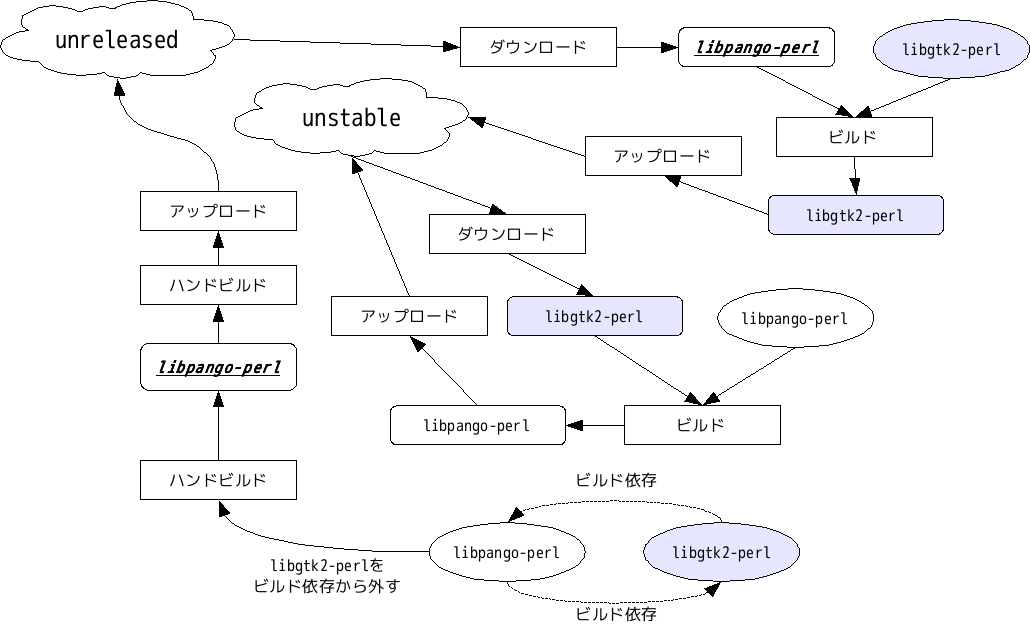
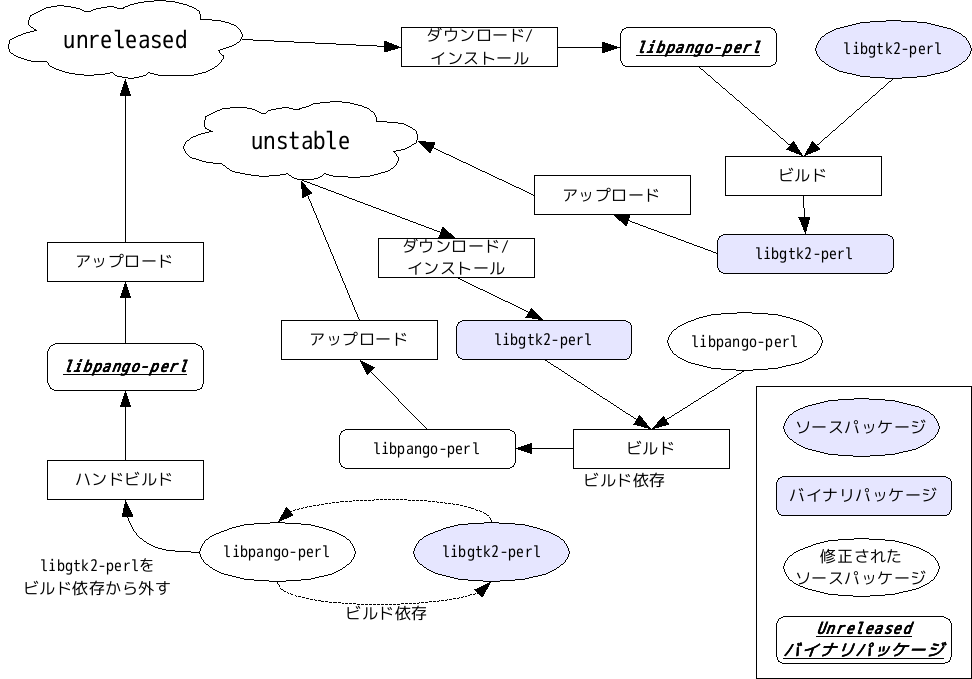
Update autobuilder/2009fuyu

diff --git a/debianmeetingresume2009-fuyu.tex b/debianmeetingresume2009-fuyu.tex
@@ -459,9 +459,9 @@ Debconf$B$G$O(B $B2q>l$+$i%P%9$G(B2$B;~4V$[$I0\F0$7$?$H$3$m$K$"$k%(%/%9%H%i
 $B$6$C$/$j@Z$C$F$7$^$&%$%Y%s%H$,H/@8$7!"5_5^<V$,8F$P$l$k%O%W%K%s%0$,$"$j$^$7$?!#(B
 
 \subsection{Debconf11}
-Debconf11 $B$O%\%9%K%"$H%I%$%D$,N)8uJd$7$7$^$7$?!#(B
+Debconf11 $B$O%\%9%K%"$H%I%$%D$,N)8uJd$7$^$7$?!#(B
 $B%I%$%D$O$^$@>l=j$,7h$^$C$F$$$J$$$h$&$G$9$,!":#G/Cf$K>l=j$r3NDj$5$;$k$h$&(B
-$B$G$9!#%=%^%j%"$O%H%i%s%8%C%H$,LLE]$G$9$,!"3+:ECO$O6u9A$+$i?t%-%m$N$H$3$m(B
+$B$G$9!#%\%9%K%"$O%H%i%s%8%C%H$,LLE]$G$9$,!"3+:ECO$O6u9A$+$i?t%-%m$N$H$3$m(B
 $B$K$"$j!"$=$s$J$K:$$i$J$$$h$&$K46$8$^$7$?!#(B
 $B%I%$%D$O(BDebian$B3+H/<T$,0lHVB?$$9q$G!"(BDebconf$B%A!<%`(B(orga)$B$N%a%s%P$bB?$$$?(B
 $B$a!"%I%$%DG;8|$J5$$,$7$^$9!#(B
@@ -684,7 +684,7 @@ defoma $B$r(B ITA $B$7$?$^$^$[$C$?$i$+$7$K$7$F$$$?$N$G!"(BCPAN admin$B$r$D$
 (2009/1/17$B@=(B) $B$r;H$C$F%$%s%9%H!<%k$7$F$_$^$7$?!#(B
 
 $B1QJ8%I%-%e%a%s%H(B
-http://glibc-bsd.alioth.debian.org/doc/
+\url{http://glibc-bsd.alioth.debian.org/doc/}
 
 \begin{commandline}
 wget http://glibc-bsd.alioth.debian.org/install-cd/kfreebsd-i386/current/debian-20090117-kfreebsd-i386-install.iso
@@ -2205,8 +2205,10 @@ sig  sig3  55BE302B 2009-01-27 _____ 2012-12-31 [selfsig]
 sig  sig   7E7B8AC9 2009-01-27 _____ __________ Joerg Jaspert <joerg@debian.org>
 sig  sig   D0EC0723 2009-01-27 _____ __________ Mark Hymers <mhy@debian.org>
 sig  sig   BE9BF8DA 2009-01-27 _____ __________ Mike O'Connor (stew) <stew@vireo.org>
-sig  sig   30B94B5C 2009-05-24 _____ __________ ******** (imacat) <imacat@mail.imacat.idv.tw>
+sig  sig   30B94B5C 2009-05-24 _____ __________ XXXXXXXXX (imacat) <imacat@mail.imacat.idv.tw>
 \end{commandline}
+\footnote{imacat$B$NL>A0$OJ8;z2=$1$N$?$a(BXXXXXXXX $B$K$7$F$"$j$^$9!#(B}
+
 $B80$N%A%'%C%/(B
 \begin{commandline}
 $ gpg --keyserver pgp.mit.edu --recv-keys 55BE302B
@@ -2238,7 +2240,6 @@ trust path finder\footnote{\url{http://pgp.cs.uu.nl/mk_path.cgi}}$B$r;H$&$H!"?.
 \end{center}
 $BB>$N?M$r2p$7$F!"(BWeb of Trust $B$,$D$J$,$C$F$$$k$3$H$,J,$+$k!#(B
 $BCN$j9g$$$NCN$j9g$$$,%5%$%s$7$F$$$k$h$&$@!#$A$g$C$H$O?.MQ$G$-$k$+$J!)$H$+!#(B
-
 
 \subsection{$B%-!<%5%$%s$NN.$l(B}
 \begin{center}
@@ -4511,7 +4512,7 @@ Mentor $B$K$J$kB&$H$7$F!V$3$&$$$&46$8$@$H%9%]%s%5!<$K$J$j$d$9$$(B/$B$J$C$F$d$
 
 % 200909 KSP$B$N$?$aL5$7(B
 
-\dancersection{Debian autobuilder $B%M%C%H%o!<%/(B}{$B4d>>(B $B?.MN(B}
+\dancersection{Debian Autobuilder $B%M%C%H%o!<%/(B}{$B4d>>(B $B?.MN(B}
 \index{autobuilder}
 \index{buildd}
 
@@ -4556,8 +4557,14 @@ tecture: any) $B$H%"!<%-%F%/%A%cHs0MB8$N%Q%C%1!<%8(B (Architecture: all) $B$r
 $B%A%'%C%/$7!"A0<T$r(B wanna-build $B$N%G!<(B
 $B%?%Y!<%9$KEPO?$9$k%D!<%k$G$9!#$3$l$O%=!<%9%Q%C%1!<%8$@$1$G$J$/!"%P%$%J(B
 $B%j%Q%C%1!<%8$b%A%'%C%/$7$^$9!#(B
-Autobuilder $B%M%C%H%o!<%/$N2aDx$G$O(B $B%"!<%-%F%/%A%cHs0MB8$N%Q%C%1!<%8$O%S(B
+$B$h$C$F!"(BAutobuilder $B%M%C%H%o!<%/$G$O(B $B%"!<%-%F%/%A%cHs0MB8$N%Q%C%1!<%8$O%S(B
 $B%k%I$5$l$^$;$s!#(B
+$BNc$($P!"(Bdpkg $B%=!<%9%Q%C%1!<%8$+$i$O(B dpkg, dpkg-dev, dselect $B%P%$%J(B
+$B%j%Q%C%1!<%8$,@8@.$5$l$^$9$,!"(Bdpkg-dev $B$O%"!<%-%F%/%A%cHs0MB8$N%Q%C%1!<(B
+$B%8$J$N$G!"(BAutobuilder$B$G$O%S%k%I$5$l$^$;$s!#%"!<%-%F%/%A%cKh(B
+$B$K%S%k%I$7$F$7$^$&$H%Q%C%1!<%8$N%O%C%7%eCM$,JQ$o$C$F$7$^$&$?$a$G$9!#(B
+$B$3$l$O%Q%C%1!<%8%a%s%F%J$,%"%C%W%m!<%I$7$?(Bdpkg-dev$B%Q%C%1!<%8$rMxMQ$9$k$3(B
+$B$H$K$J$j$^$9!#(B
 
 $B%Q%C%1!<%8>pJs(B: \url{http://packages.qa.debian.org/q/quinn-diff.html}
 
@@ -4624,9 +4631,9 @@ sbuild$B$r;H$&I,MW$"$k$?$a$G$9!#(B
 
 \subsubsection{sbuild}
 \index{sbuild}
-$B<B:]$K%Q%C%1!<%8$r%S%k%I$9$k%W%m%0%i%`$G$9!#(Bbuildd $B$+$i8F$P$l$^$9!#%Q%C(B
-$B%1!<%8$N%=!<%9%3!<%I$r<hF@$7!"%S%k%I7k2L$r(B porter$B$H(Bwanna-build $B$KAw?.$9$k$^$G$N=hM}$r(B
-$B9T$$$^$9!#(Bpbuilder $B$H5!G=$,$+$V$j$^$9$,!"(Bsbuild $B$O%"!<%-%F%/%A%c0M(B
+$B<B:]$K%Q%C%1!<%8$r%S%k%I$9$k%W%m%0%i%`$G$9!#(Bbuildd$B$+$i8F$P$l$^$9!#%Q%C(B
+$B%1!<%8$N%=!<%9%3!<%I$r<hF@$7!"%S%k%I7k2L$r(Bporter$B$H(Bwanna-build$B$KAw?.$9$k$^$G$N=hM}$r(B
+$B9T$$$^$9!#(Bpbuilder$B$H5!G=$,$+$V$j$^$9$,!"(Bsbuild $B$O%"!<%-%F%/%A%c0M(B
 $BB8ItJ,$N%S%k%I$KFC2=$7$?%Q%C%1!<%8%S%k%I%7%9%F%`$K$J$C$F$$$^$9!#(Bschroot
 $B$rMxMQ$9$k$3$H$K$h$j!"(Blvm $B$J$I%G%#%9%/4IM}5!G=$K$bBP1~$b$5$l$F$$$^$9!#(B
 
@@ -4653,7 +4660,7 @@ buildd $B$r%a%s%F%J%s%9$9$k?M$G$9!#%S%k%I7k2L$r%a!<%k$H$7$F<u?.$7!"$=$N7k(B
 $B$F=hM}$9$k$N$G$9$,!"8=:_$N$H$3$m(B mutt $B$N%9%/%j%W%H$7$+$J$$$N$G!"$[$H$s$I(B
 $B$N(B porter $B$O(B Mutt $B%f!<%6$G$9!#(B
 \\
-GPG$B$K$h$k%5%$%s$r<+F02=$9$l$P$h$$$N$G$9$,!"%;%-%e%j%F%#$N4QE@$+$i(B porter
+$B$^$?!"(BGPG$B$K$h$k%5%$%s$r<+F02=$9$l$P$h$$$N$G$9$,!"%;%-%e%j%F%#$N4QE@$+$i(B porter
 $B$,%5%$%s$r$9$k;EAH$_$r<h$C$F$$$^$9!#(B
 \\
 $B%S%k%I$K<:GT$7$?>l9g$N%a!<%k$N=q<0$b7h$^$C$F$$$^$9!#0J2<$K=q<0$r<($7$^$9!#(B
@@ -4678,7 +4685,8 @@ give-back
 \begin{commandline}
 not-for-us
 \end{commandline}
-\footnote{$B%"!<%-%F%/%A%c%j%9%H$KF~$C$F$$$J$$$@$1$N>l9g$O!"(Bfailed$B$r;XDj$7$^$9!#(B}
+\footnote{$B%"!<%-%F%/%A%c%j%9%H$KF~$C$F$$$J$$$@$1$N>l9g$O!"(Bfailed$B$r;XDj$7!"(B
+      $B%S%k%I%(%i!]$K$7$?8e!"%]!<%F%#%s%0$r9T$$!"%Q%C%A$r(BBTS$B$7$^$9!#(B}
 \end{itemize}
 
 \subsubsection{wanna-build $B%a%s%F%J(B}
@@ -4703,7 +4711,7 @@ not-for-us
 
 \subsection{$B%Q%C%1!<%8$N>uBVA+0\(B}
 $B%Q%C%1!<%8$O>o$K$J$K$+$7$i$N>uBV$r%9%F!<%?%9$r;}$C$F$$$^$9!#%9%F!<%?%9(B
-$B$O(B wanna-build $B$G4IM}$9$k(B DB $B$GJ];}$5$l$F$$$^$9!#(B
+$B$O(B wanna-build $B$G4IM}$9$k(B $B%G!<%?%Y!<%9(B $B$GJ];}$5$l$F$$$^$9!#(B
 $B%9%F!<%?%9$O0J2<$N$b$N$,$"$j!"?^(B\ref{fig:pkg-state}$B$N$h$&$KJQ2=$7$^$9!#(B
 
 \begin{itemize}
@@ -4839,23 +4847,24 @@ unknown & -1 \\ \hline
 \end{center}
 \end{table}
 
-\subsection{$B?7$7$$%"!<%-%F%/%A%c$r%5%]!<%H$9$k(B}
+\subsection{$B?7$7$$%"!<%-%F%/%A%c(B/$B%+!<%M%k$r%5%]!<%H$9$k(B}
 
 $B@N$O!"%]!<%F%#%s%0$7$?$$?M$,(B quinn-diff $B$+$i(B buildd(buildd-node) $B$^$GA4(B
 $B$F9=C[$9$kI,MW$,$"$j$^$7$?!#$3$N:GBg$N%M%C%/$O(B wanna-build
 $B%G!<%?%Y!<%9$G!"$3$l$O:G?7$N$b$N$r;H$&I,MW$,$"$C(B
 $B$?$N$G$9$,!"%G!<%?%Y!<%9$K%"%/%;%9$9$k$K$O%5!<%P!<$N%"%+%&%s%H$,I,MW$@$C(B
 $B$?$?$a!"(B
-$B9=C[$,:$Fq$G$7$?(B\footnote{$B9=C[$O2DG=$@$,!"%?%$%`%i%0$,H/@8$9$k!#$=$NM}M3(B
+$B9=C[$,:$Fq$G$7$?(B\footnote{$B9=C[$O2DG=$G$9$,!"%?%$%`%i%0$,H/@8$7$^$9!#$=$NM}M3(B
 $B$H$7$F(Bbuildd$B$,;2>H$9$k%j%]%8%H%j$O:G?7$N%j%]%8%H%j>pJs$,H?1G$5$l$k(Bbuildd
-$B@lMQ$N$?$a(B}$B!#$7$+$7!":#$O?7$7$$%"!<%-%F%/%A%c$rDI2C$9$k$?$a$N%5%]!<(B
+$B@lMQ$N$?$a$G$9(B}$B!#$7$+$7!":#$O?7$7$$%"!<%-%F%/%A%c$rDI2C$9$k$?$a$N%5%]!<(B
 $B%HMQ%5!<%S%9(B debian-ports.org $B$,MQ0U$5$l$F$$$^$9!#$3$N%5!<%S%9$G$O!"%]!<(B
 $B%F%#%s%0$7$?$$%"!<%-%F%/%A%cMQ$N(B
-wanna-build $BMQ%"%+%&%s%H(B $B$H(B DB, quinn-diff $B$N%5!<%S%9$rDs6!$G$-$k$h$&$K(B
+wanna-build $BMQ%"%+%&%s%H(B $B$H(B $B%Q%C%1!<%8MQ%G!<%?%Y!<%9(B, quinn-diff $B$N%5!<%S%9$rDs6!$G$-$k$h$&$K(B
 $B$J$C$F$$$^$9!#$3$l$K$h$j!"0\?"$7$?$$?M$O(B buildd-node $B$N$_$rMQ0U$7!"(Bdebian-ports $B$N4IM}<T$KEPO??=@A$r$9$k$@(B
 $B$1$G?7$7$$%"!<%-%F%/%A%c$r%5%]!<%H$G$-$k$h$&$K$J$j$^$7$?!#(B
-$B8=:_!"(B\ref{tbl:support-arch}$B$N%"!<%-%F%/%A%c$,(B debian-ports.org $B$r;H$C$F%]!<%F%#(B
-$B%s%0$r?J$a$F$$$^$9!#(B
+$B8=:_!"I=(B\ref{tbl:support-arch}$B$N%"!<%-%F%/%A%c$,(B debian-ports.org $B$r;H$C$F%]!<%F%#(B
+$B%s%0$r?J$a$F$$$^$9!#$=$7$F!"(BkFreeBSD-amd64/i386$B$O$3$N%5!<%S%9$+$iCB@8$7(B
+$B$?:G=i$N%5%]!<%H%"!<%-%F%/%A%c(B($B%+!<%M%k(B)$B$K$J$j$^$7$?!#(B
 
 \begin{table}
 \begin{center}
@@ -4872,6 +4881,10 @@ sh4 & 85.43\% \\ \hline
 \label{tbl:support-arch}
 \end{center}
 \end{table}
+
+$B$^$?!"(Bdebian-ports.org$B$G$O(Bwanna-build$B$N%a%s%F%J$,B8:_$7$^$;$s!#(Bporter$B$,(B
+wanna-build$B$N%a%s%F%J%s%9$r$9$k$3$H$,$G$-$^$9!#@5<0$K%5%]!<%H$5$l$?%"!<(B
+$B%-%F%/%A%c$G$O$J$$$N$G$3$N$"$?$j$O$"$^$j87L)$K7h$^$C$F$$$J$$$h$&$G$9!#(B
 
 \subsection{loop-depends $B$NBP1~J}K!(B}
 
@@ -4910,15 +4923,8 @@ Build-Depends: debhelper (>= 7.0.50), quilt (>= 0.46-7), perl, libextutils-depen
  \label{fig:buil-dep-libgtk2-perl}
 \end{figure}
 
-%\begin{figure}[htbp]
-% \begin{center}
-%   \includegraphics[scale=0.7]{image200911/loop-dep_mono.png}
-% \end{center}
-% \caption{$B%k!<%W%S%k%I0MB84X78(B}
-% \label{fig:loop-dep}
-%\end{figure}
-
-$B$3$l$G$O$$$D$K$J$C$F$b%S%k%I$G$-$^$;$s!#$3$l$O%P%0$H$7$F07$o$l$k$N$G$O!)(B
+$B$3$l$G$O$$$D$K$J$C$F$b%S%k%I$G$-$^$;$s!#$3$l$O?7$7$$%"!<%-%F%/%A%c$r(B
+$B%5%]!<%H$9$k>l9g$K$h$/=P$F$/$kLdBj$G$9!#$3$l$O%P%0$H$7$F07$o$l$k$N$G$O!)(B
 $B$H;W$$$^$9$,!"(Blibpang-perl$B$r%S%k%I$9$kCJ3,$G(B libgtk2-perl$B$r;H$C$?%F%9(B
 $B%H$r9T$&$?$a!"(Blibgtk2-perl$B$,I,MW$J$N$G$9!#(BDebian$B$G$O%=%U%H%&%'%"$N%S%k%I(B
 $B$K<B9T$5$l$k%F%9%H$O9T$&$3$H$,?d>)$5$l$F$$$k$N$G!"$3$N$h$&$K%S%k%I0MB84X78$,%k!<%W$7$F$$$^$9!#(B
@@ -4955,21 +4961,31 @@ libpango-perl$B$O(Blibgtk2-perl$B$,8+$D$+$i$J$$>l9g$K$O!"%F%9%H$rL5;k$7$^$9!#
 \item libgtk2-perl $B$,%S%k%I$G$-$k$h$&$K$J$j$^$9!#(B
 \item libgtk2-perl $B$,$G$-$?$i!"(Bunreleased $B%G%#%9%H%j%S%e!<%7%g%s$+$i(B
       libpango-perl $B$r>C$7$F$b$i$$$^$9!#(B
-\item libpango-perl $B$,(B $BK\Mh$N(BDebian Version$B$N$b$N$G%S%k%I$5$l$^$9!#(B
+\item libpango-perl $B$,(B $BK\Mh$N(BDebian Version$B$G%S%k%I$5$l$^$9!#(B
 \end{enumerate}
 
-$BKh2s$3$NJ}K!$,$&$^$/$$$/$H$O8B$j$^$;$s!#(B
+$B?^$K$9$k$H?^(B\ref{fig:loop-dep-image}$B$N$h$&$K$J$j$^$9!#(B
+
+\begin{figure}[htbp]
+ \begin{center}
+   \includegraphics[scale=0.7]{image200911/loop-dep-image.png}
+ \end{center}
+ \caption{$B%k!<%W%S%k%I0MB84X782sHrJ}K!(B}
+ \label{fig:loop-dep-image}
+\end{figure}
+
+$B$3$N%k!<%W0MB8$O$H$F$b4JC1$JNc$J$N$G!"Kh2s$3$NJ}K!$,$&$^$/$$$/$H$O8B$j$^$;$s!#(B
 $BNc$($P!"0MB8$9$k%Q%C%1!<%8$dDs6!$5$l$k%Q%C%1!<%8$N5!G=$K$h$C$F$O(B configure $B$N%*(B
-$B%W%7%g%s$rJQ99$9$k>l9g$b$"$j$^$9!#$3$N$"$?$j$O%Q%C%1!<%8%a%s%F%J$+!"(B
+$B%W%7%g%s$rJQ99$9$k>l9g$b$"$j$^$9(B(gtk2.0$B$d(Bavahi$B$J$I(B)$B!#$3$N$"$?$j$O%Q%C%1!<%8%a%s%F%J$+!"(B
 debian-wb@l.d.o $B$KD>@\J9$$$?$[$&$,$h$$$G$9!#J9$+$J$$$H$o$+$i$J$$$H$$$&$N(B
 $B$OLdBj$J$N$G!"(BREADME.Debian$B$"$?$j$K=q$$$F$b$i$&$h$&$K7W2hCf$G$9!#(B
 
 \subsection{$B$^$H$a(B}
-auto-builder $B%M%C%H%o!<%/$O(BDebian$B8x<03+H/<T$G$5$($"$^$j?($k$3$H$N$J$$%7(B
+Autobuilder $B%M%C%H%o!<%/$O(BDebian$B8x<03+H/<T$G$5$($"$^$j?($k$3$H$N$J$$%7(B
 $B%9%F%`$G$9!#%V%i%C%/%\%C%/%9$J$H$3$m$,0JA0$+$i$"$C$?$H;W$&$N$G$9$,!"(B
 $B:#2s$N@bL@$G>/$7$O$o$+$kItJ,$,A}$($?$+$J$H;W$$$^$9!#(B
-$B8D?ME*$K$O(Bauto $B$Hkp$C$F$*$-$J$,$i<B$O?M$,2pF~$7$F$$$?$j$9$k$N$O$1$C$3$&(B
-$B0U30$G$7$?!#(Bauto-builder $B%M%C%H%o!<%/$N1|?<$/$KF~$j9~$_$?$$?M$O$<$R(B
+$B8D?ME*$K$O(BAuto$B$Hkp$C$F$*$-$J$,$i<B$O?M$,2pF~$7$F$$$?$j$9$k$N$O$1$C$3$&(B
+$B0U30$G$7$?!#(BAutobuilder$B%M%C%H%o!<%/$N1|?<$/$KF~$j9~$_$?$$?M$O$<$R(B
 Debian/SH4$B$N%]!<%F%#%s%0$K;22C$7$F$$$?$@$1$l$P$H;W$$$^$9!#(B
 \newpage
 
